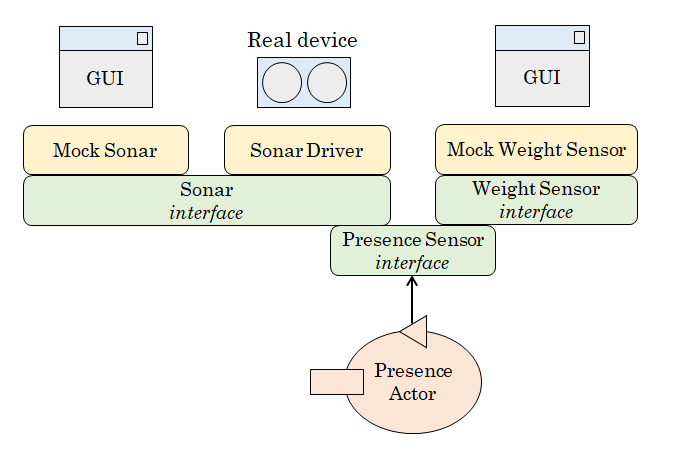
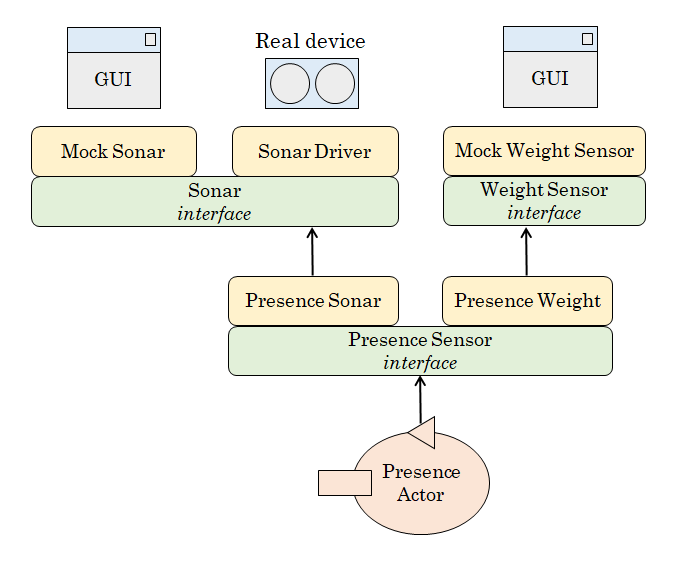
corrections

diff --git a/FinalTask/userDocs/sprint_1.html b/FinalTask/userDocs/sprint_1.html
@@ -390,27 +390,38 @@ The <a href="#requirements_requirements">requirement details</a> provided by the
         <li>the thermometer;</li>
         <li>the fan;</li>
         <li>the outsonar;</li>
-        <li>our application (ParkManagerService) that sends commands to the robot in order to meet the requirements.</li>
+        <li>our application (ParkManagerService), which sends commands to the trolley in order to meet the requirements.</li>
     </ul>
-	<li>Being a distributed system made of several heterogeneous components, it would benefit greatly from a message-passing form of communication and each logical component should be modeled as an actor; we will leverage the <a href="https://htmlpreview.github.io/?https://raw.githubusercontent.com/anatali/issLab2021/main/it.unibo.qakactor/userDocs/LabQakIntro2021.html">QAK meta-model</a>, already developed by our company, to build executable models.</li>
-	<li>Since the available map measures the <kc>parking-area</kc> in squares of side length <ks>RD</ks> (like the trolley), the communication with the virtual robot should follow the <k>aril</k> convention, as described in the document provided by the customer.</li>
+	<li>This distributed system, made of several heterogeneous components, would benefit greatly from an <k>actor-based</k> framework with support for <k>message-passing</k> interaction; for this purpose, we should leverage the avaliable <a href="https://htmlpreview.github.io/?https://raw.githubusercontent.com/anatali/issLab2021/main/it.unibo.qakactor/userDocs/LabQakIntro2021.html#qakoverview">QAK meta-model</a> to build executable models; each logical component should be modeled as an actor;</li>
+	<li>Since the available map measures the <kc>parking-area</kc> in squares of side length <ks>RD</ks> (same as trolley size), the communication with the virtual robot should follow the <a href="http://htmlpreview.github.io/?https://raw.githubusercontent.com/anatali/issLab2021/main/it.unibo.boundaryWalk/userDocs/BoundaryWalk.html#aril">aril convention</a>;</li>
 	<li>PROTOCOLLI</li>
+	<li>ABSTRACTION GAP</li>
+	<li>TEMPI DI SVILUPPO</li>
+	<li>LISTA DI PRIORITA' PER GLI SPRINT</li>
+	<li>EVIDENZIARE FUNZIONAMENTI PROATTIVI E REATTIVI</li>
 </ol>
+<center><img src="./img/actors.png" width="500px"></center>
 
 <h3>Logical architecture</h3>
 
 <h4>Presence sensors</h4>
-
-<p>The <kc>INDOOR-area</kc> and the <kc>OUTDOOR-area</kc> are respectively equipped with a <ks>weightsensor</ks> and an <ks>outsonar</ks>. While being two physically different components, they serve the same logical function and thus they can be both modeled as <k>presence sensors</k> with appropriate adapters.</p>
-<p>The sensor model should be queryable as to know if it does or does not detect a presence. The actor using it should poll the presence at each given interval of a time <ks>TPOLL</ks> and fire an <k>event</k> each time the status changes from present to non-present or the other way around.</p>
+<p>The <kc>INDOOR-area</kc> and the <kc>OUTDOOR-area</kc> are respectively equipped with a <ks>weightsensor</ks> and an <ks>outsonar</ks>. While being two physically different components, they serve the same logical function and thus they can be both modeled as <k>presence sensors</k> with appropriate <k>adapters</k>.</p>
+<p>The sensor entity should be queryable as to know if it does or does not detect a presence. The actor using it (one for each sensor) should poll the presence within a fixed interval of time and fire an <k>event</k> each time the status changes from present to not-present (or the other way around).</p>
 <center><img src="./img/presence_actor.png" width="500px"></center>
 
 <h4>Thermometer and fan</h4>
-<p>Much like the sonar and the weight sensor, the <ks>thermometer</ks> should be a queryable component encapsulated into an actor that polls the temperature and fires an <k>event</k> with the new temperature value each time it varies significantly.</p>
-<p>The <ks>fan</ks> should be a reactive component able to turn ON and OFF the device. Its control actor should be able to receive <k>dispatches</k> and update the ON/OFF status of the fan according to them.</p>
+<p>Much like the sonar and the weight sensor, the <ks>thermometer</ks> should be a queryable component encapsulated into an actor that polls the temperature and fires an <k>event</k> with the new temperature value each time it varies <k>significantly</k>.</p>
+<p>Alternatively, it may be more useful to distribute part of the business logic and instruct the thermometer actor to fire an <k>event</k> only when the temperature goes from below to above or from above to below the given threshold <ks>TMAX</ks>. Compared to the first option, this option would also have the useful side-effect of not requiring us to determine when a temperature variation is significative enough to be reported and when it is not.</p>
+<p>The <ks>fan</ks> should be a passive component able to turn ON and OFF the device when notified to do so. Its control actor should be able to receive <k>dispatches</k> and update the ON/OFF status of the fan according to them.</p>
 <center><img src="./img/thermometer_and_fan.png" width="500px"></center>
 
+<h4>The business logic</h4>
+
+<h4>The trolley</h4>
+<p>BasicStepRobotActor vs. RobotService</p>
+
 <h3>Refined test plan</h3>
+<p>OGNI TEST PLAN DEVE ESSERE COLLEGATO AD UNA SPECIFICA USER STORY</p>
 
 </div>
 
